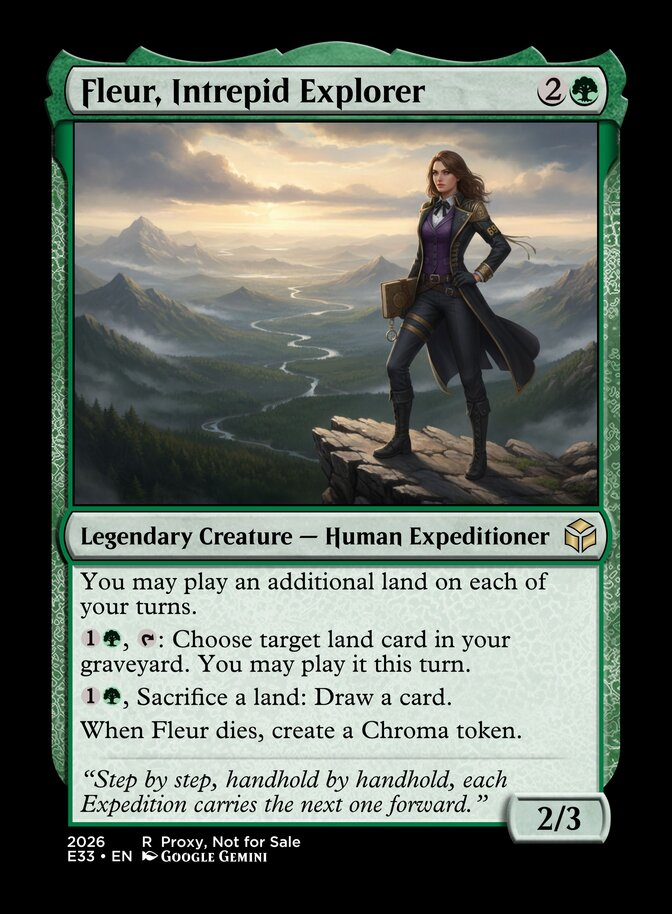
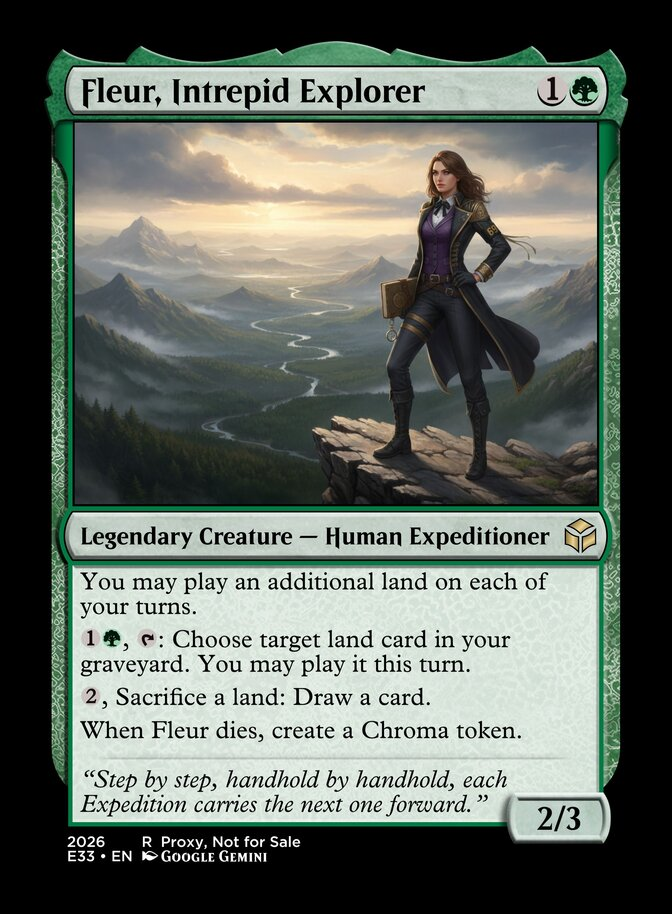
Fleur: Tweak power level

Changed region(s): [[0.125, 0.7352, 0.6562, 0.7965], [0.8125, 0.0613, 0.8438, 0.1225]]

diff --git a/design/GREEN.md b/design/GREEN.md
@@ -1,6 +1,6 @@
 # Cards
 
-> Last generated: 12/6/2026 1:51:45 pm
+> Last generated: 20/6/2026 4:03:00 pm
 
 ## Abbest
 
@@ -324,11 +324,11 @@ Any adversity can be overcome, if we face it together.
 ## Fleur, Intrepid Explorer
 
 ```
-2G
+1G
 Legendary Creature - Human Expeditioner
 You may play an additional land on each of your turns.
 {1}{G}, {T}: Choose target land card in your graveyard. You may play it this turn.
-{1}{G}, Sacrifice a land: Draw a card.
+{2}, Sacrifice a land: Draw a card.
 When Fleur dies, create a Chroma token.
 ---
 "Step by step, handhold by handhold, each Expedition carries the next one forward."
@@ -343,6 +343,7 @@ When Fleur dies, create a Chroma token.
  - Fleur is a member of Expedition 69. The expedition was responsible for most of the grappling points installed throughout the continent.
  - This was a last-minute addition to Green to boost that color's power level. An obvious "build around me" value engine.
  - Replaces Expedition 69 Explorer from earlier iterations of this set.
+ - 21/06/2026: Reduced cost from 2G to 1G and changed the land sac ability from 1G to 2
 
 ## Franctale
 
